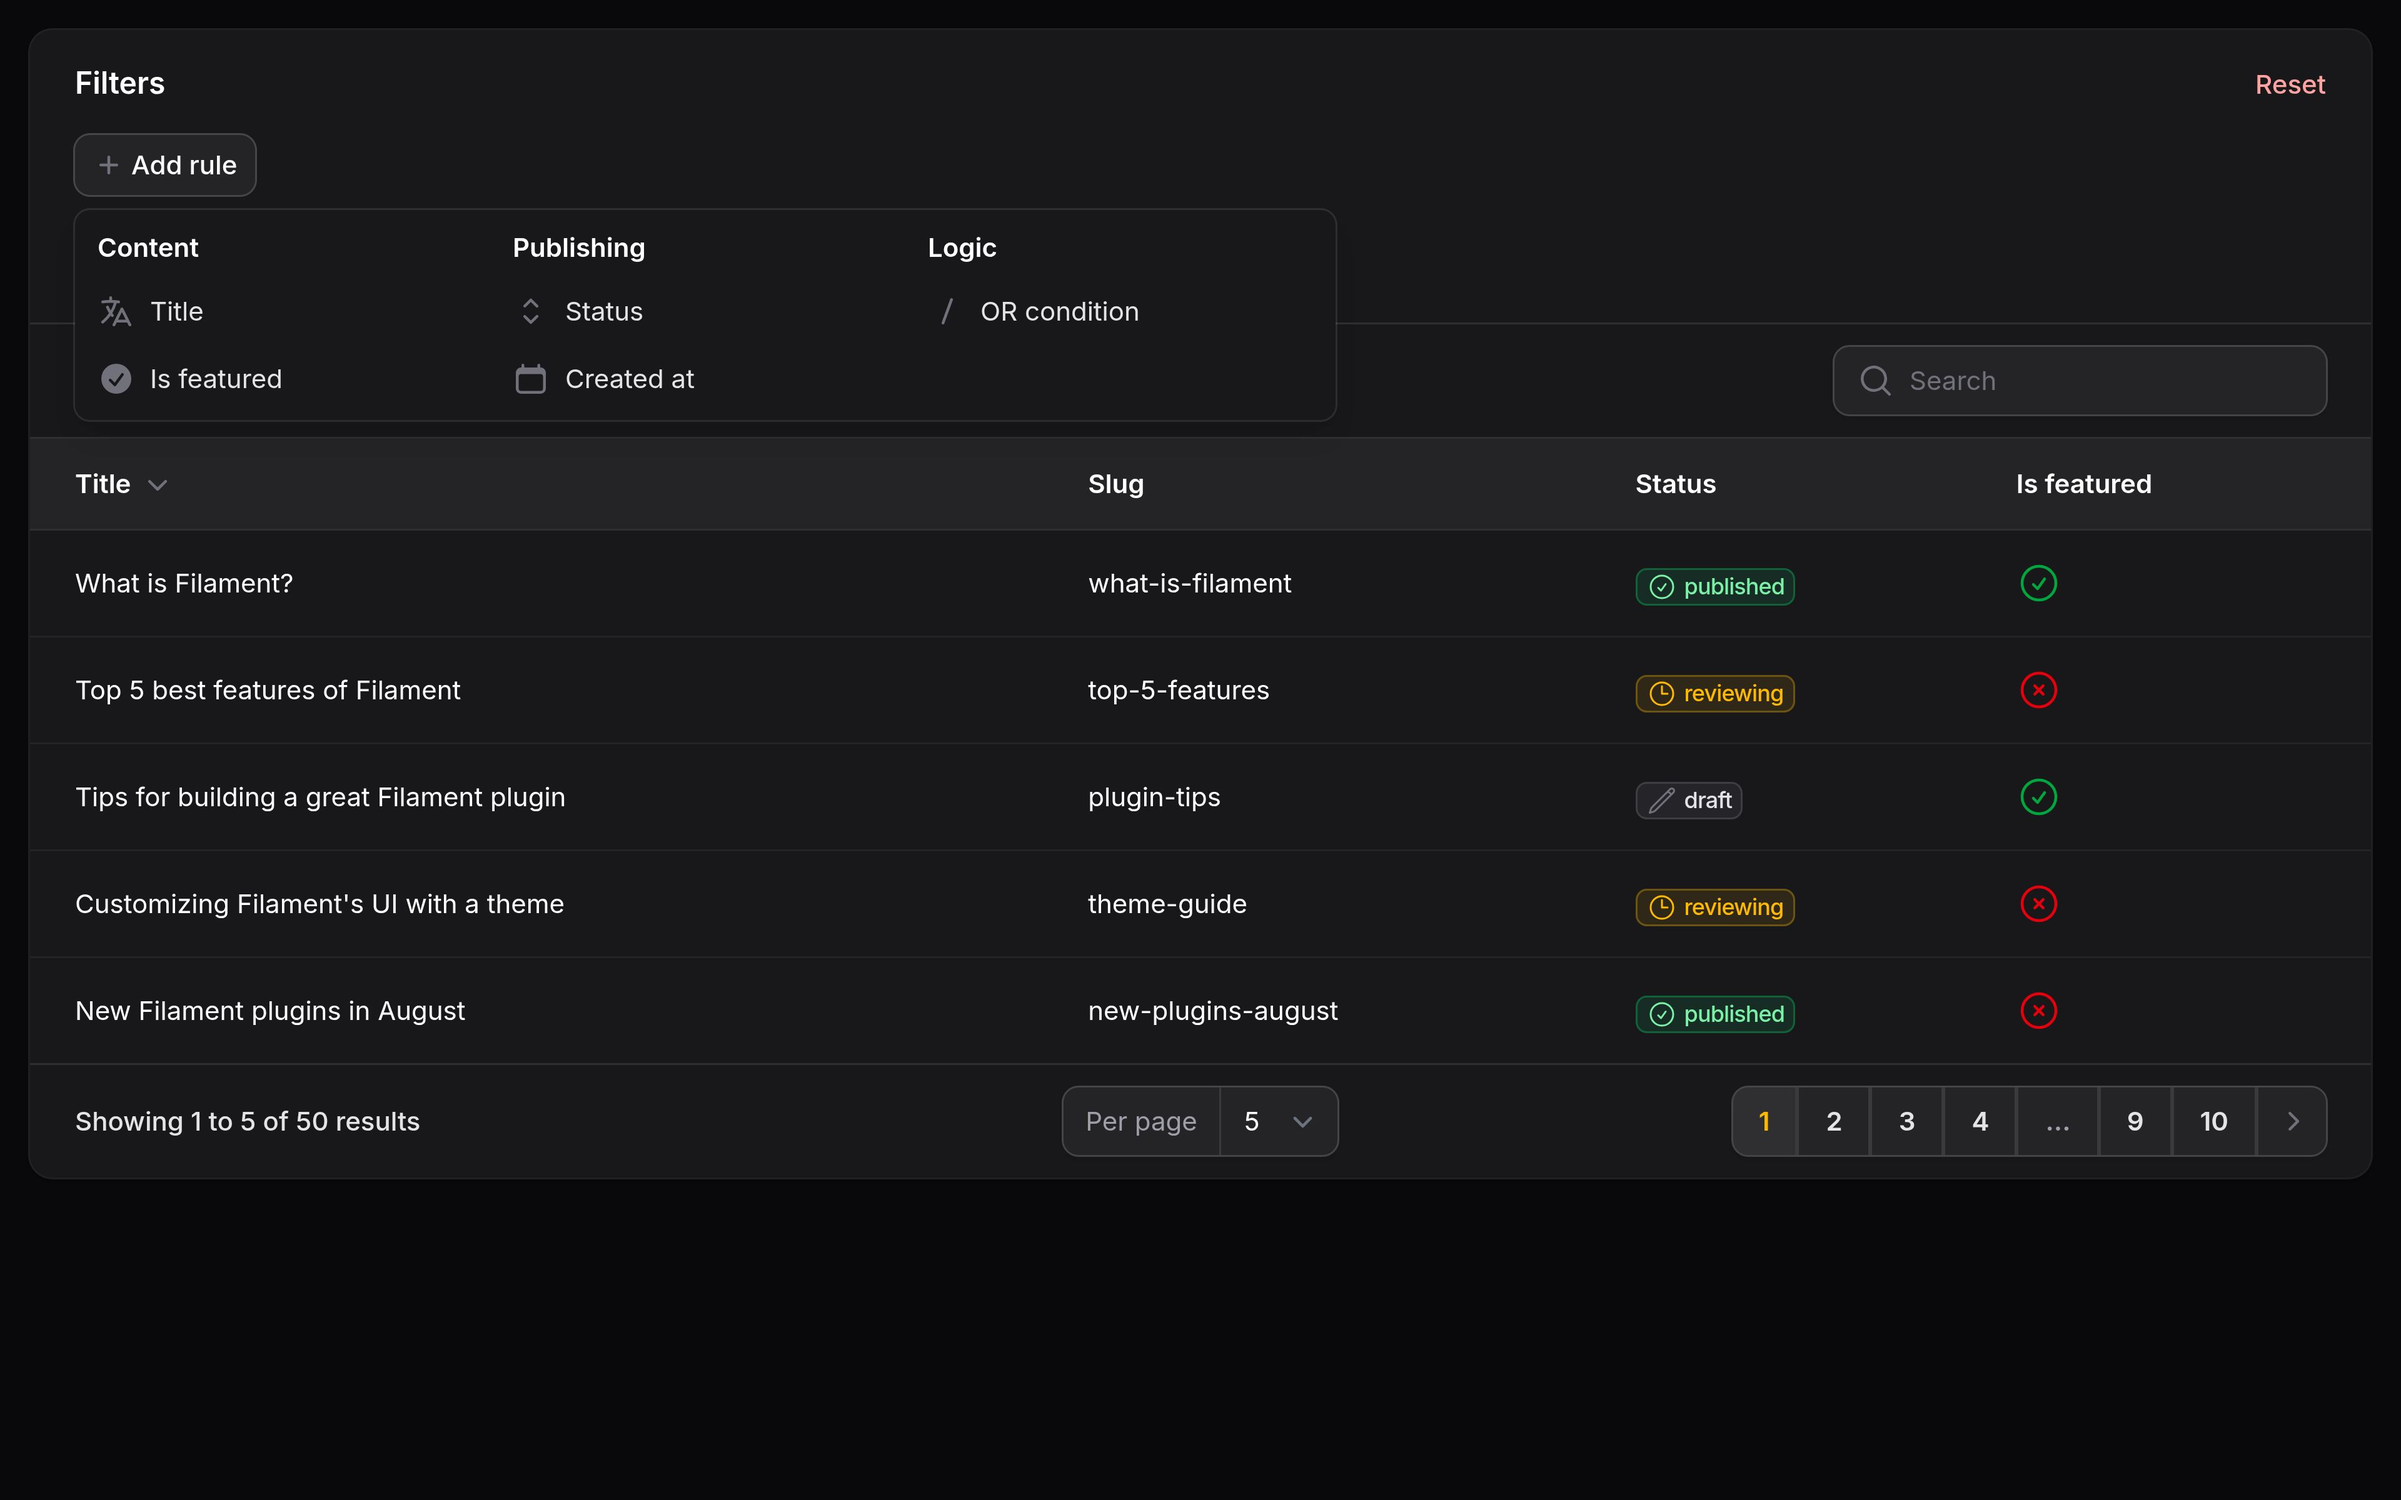
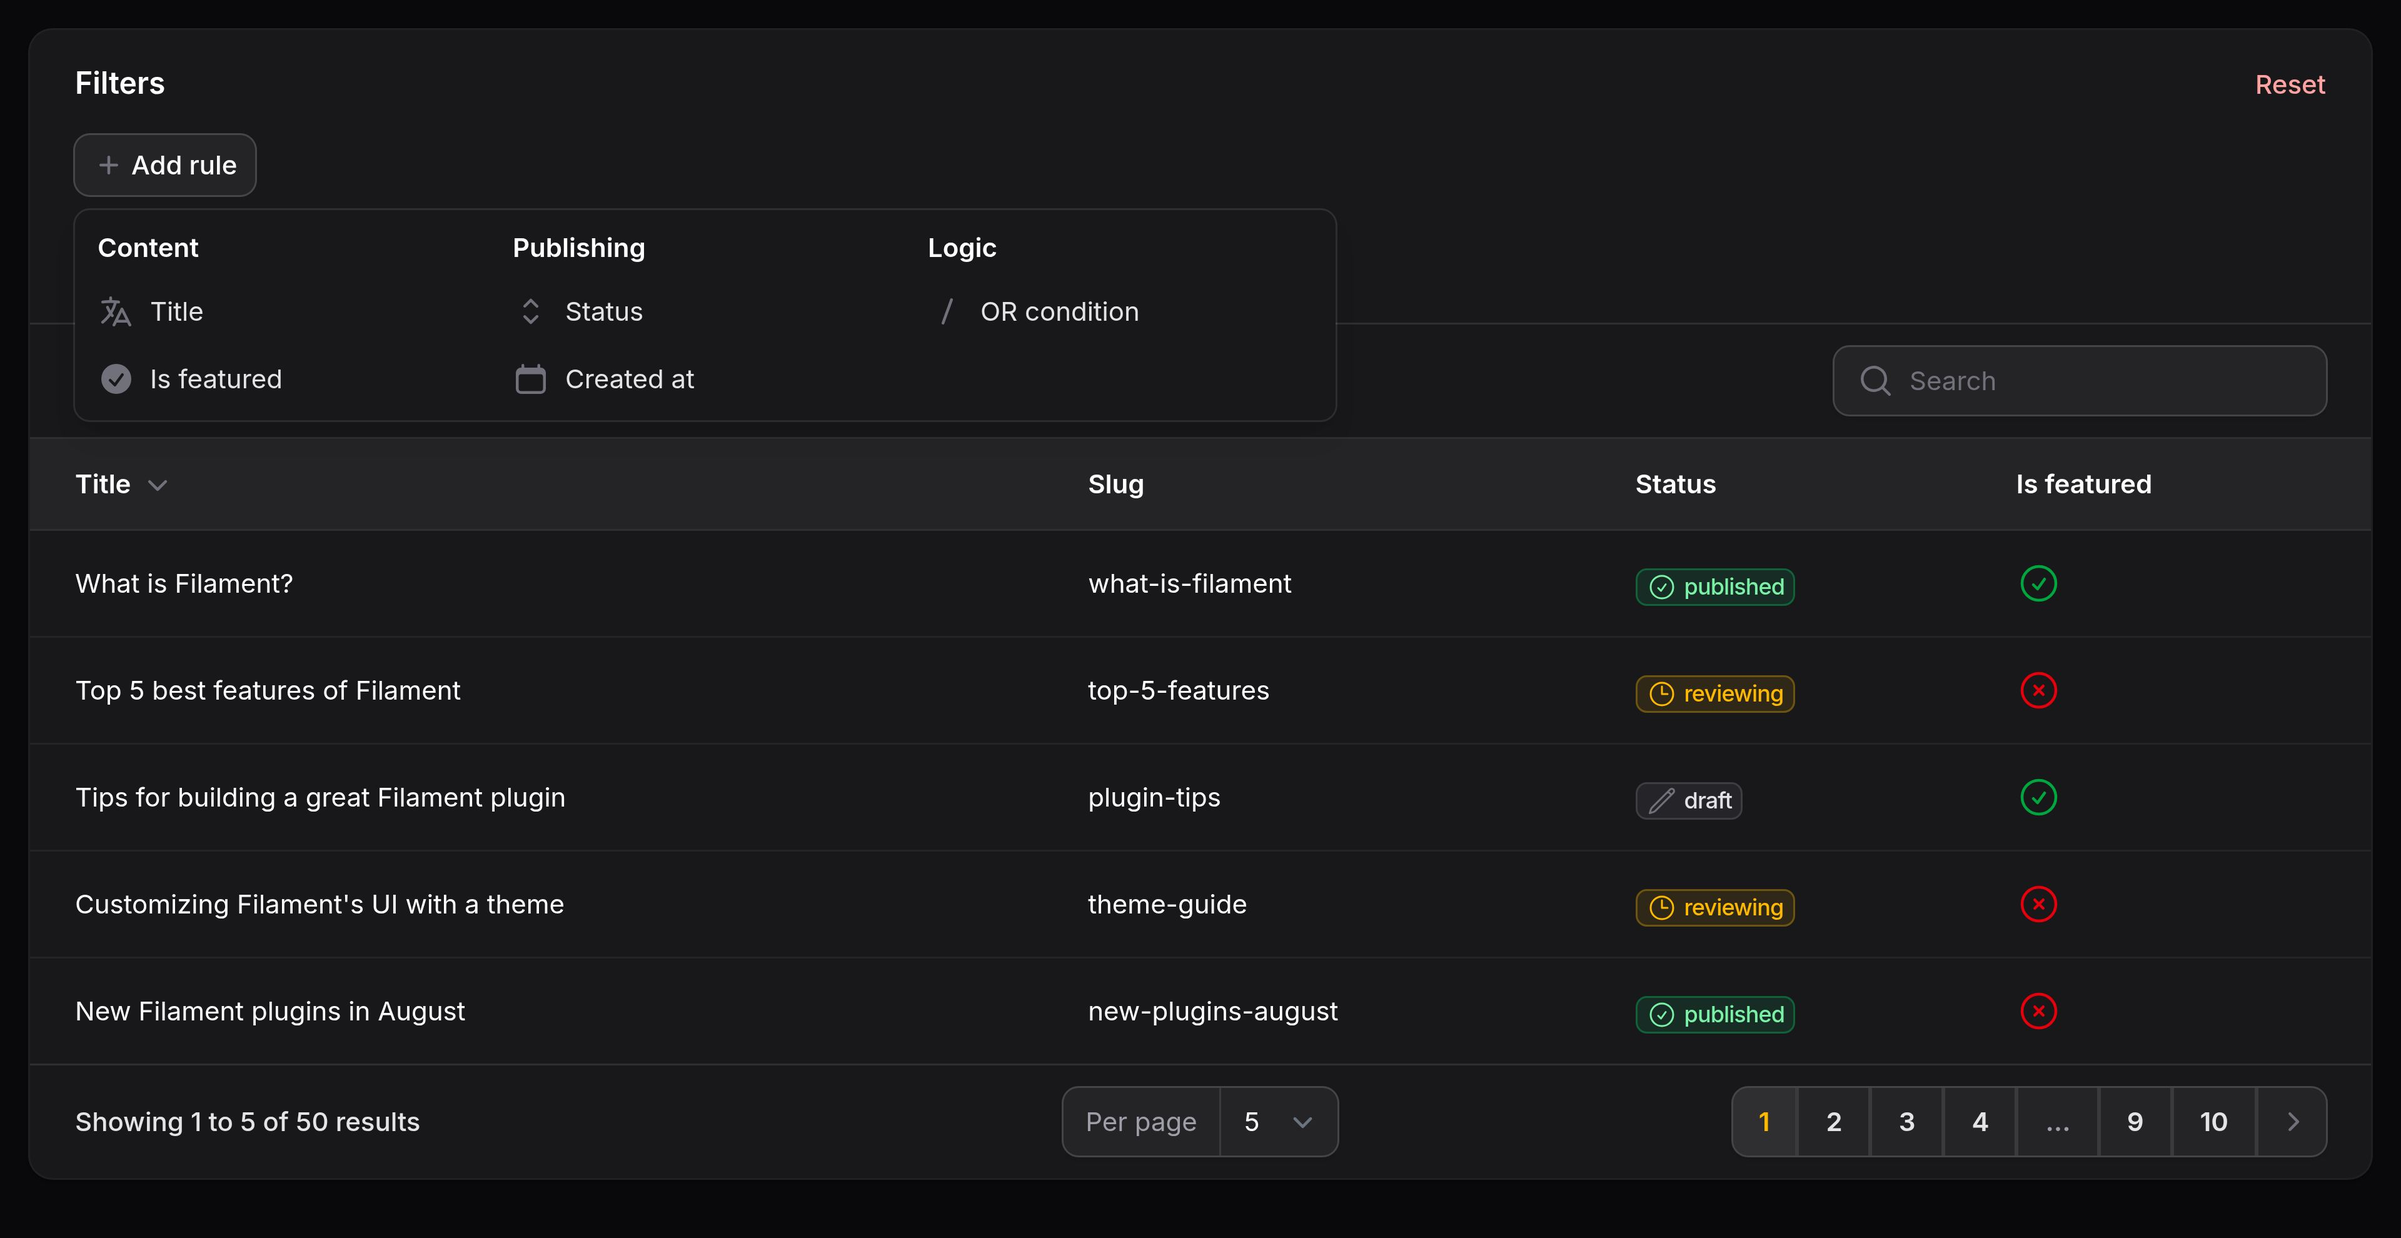
docs: tighten grouped query builder screenshot framing

diff --git a/docs-assets/screenshots/schema.js b/docs-assets/screenshots/schema.js
@@ -5473,7 +5473,7 @@ export default {
         selector: 'body',
         viewport: {
             width: 1280,
-            height: 800,
+            height: 660,
             deviceScaleFactor: 3,
         },
         before: async (page) => {
